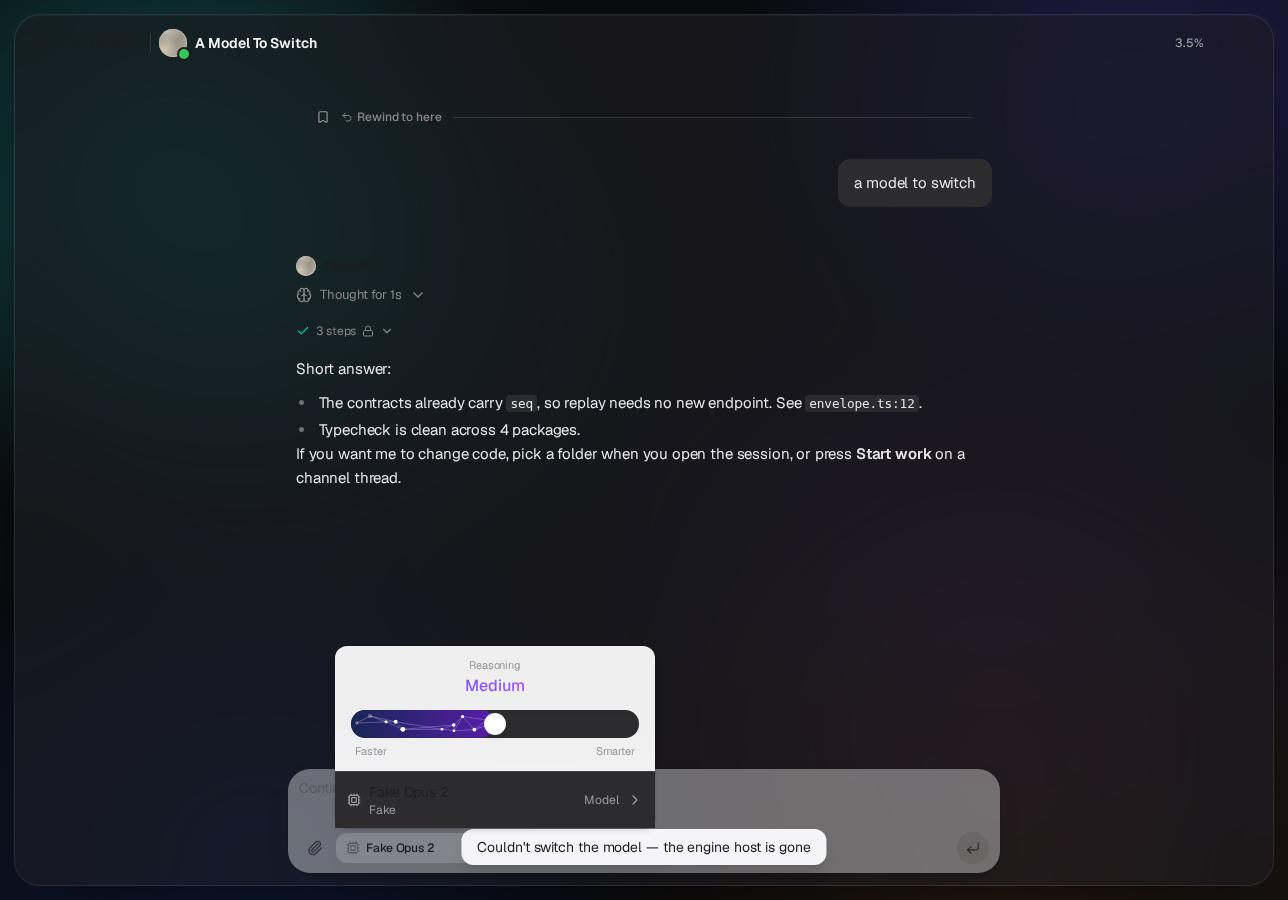
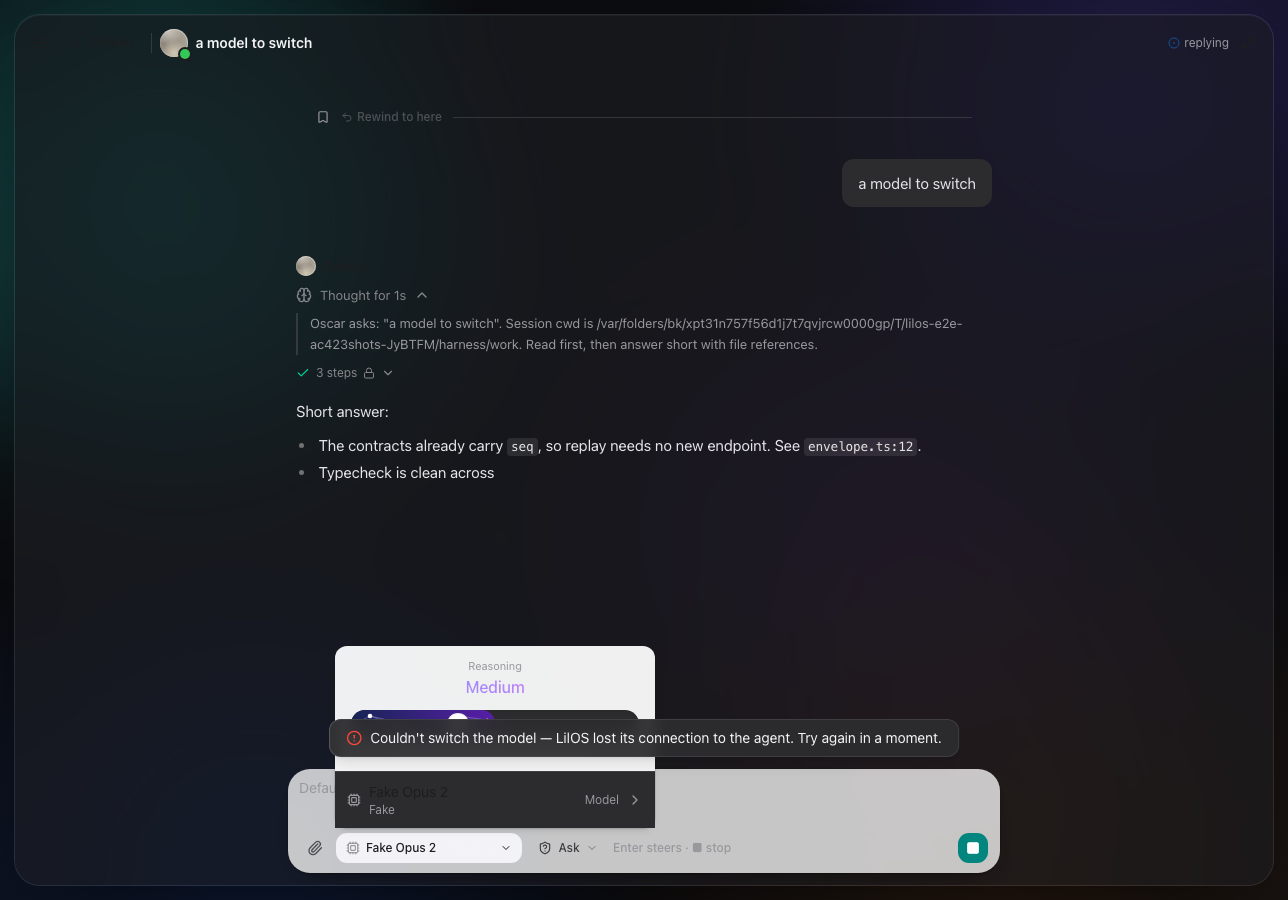
fix(dm): review — portal the toast, close silent failure paths (#423)
The in-tree z-index could never beat the popover portal: the app frame's
backdrop-filter makes it a stacking context, so the toast rendered under
the model picker's card. Portal to <body> like every other overlay.

Also from review: re-scan [data-composer] on DOM mutations so a view
switch mid-toast can't leave the pill parked over controls; clamp it
inside the viewport; toast when the asks.respond reconnect budget runs
out (the callers swallow that rejection); collapse invalid_params,
errno-style reasons and [object Object] to plain words; flag
Focus/Workbench "say" failures so they carry the destructive accent;
and toast a failed messages.search instead of showing "no hits".

Re-shoots all ten PR assets; the e2e spec now pins the toast-above-
composer geometry and the plain-words mapping on rename/archive too.

diff --git a/apps/web/src/lib/toast-view.tsx b/apps/web/src/lib/toast-view.tsx
@@ -1,5 +1,6 @@
 import { CircleAlertIcon } from "lucide-react";
 import { useLayoutEffect, useState } from "react";
+import { createPortal } from "react-dom";
 import type { Toast } from "./toast";
 
 /* The one-line notice host, rendered once by the app shell. It floats
@@ -7,9 +8,15 @@ import type { Toast } from "./toast";
    carries `data-composer` and the gap is measured, so the pill never
    lands on the toolbar row's controls no matter how tall the trays grow
    (#423 review: a bare `bottom-5` covered the model chip). With no
-   composer on screen it settles back to the plain bottom offset. */
+   composer on screen it settles back to the plain bottom offset. It is
+   portaled to <body> because the app frame's backdrop-filter makes it a
+   stacking context: an in-tree z-index could never outrank the popover
+   portal (model picker's card sits at z-50 there). */
 const RESTING_PX = 20;
 const GAP_PX = 12;
+/* A dock taller than the viewport could push the pill off the top edge —
+   keep at least this much of it on screen. */
+const TOP_RESERVE_PX = 56;
 
 export function ToastView({ toast }: { toast: Toast }) {
   const [bottom, setBottom] = useState(RESTING_PX);
@@ -21,29 +28,50 @@ export function ToastView({ toast }: { toast: Toast }) {
         if (r.height > 0)
           px = Math.max(px, window.innerHeight - r.top + GAP_PX);
       }
-      setBottom(px);
+      setBottom(Math.min(px, window.innerHeight - TOP_RESERVE_PX));
     };
-    measure();
     const ro = new ResizeObserver(measure);
-    for (const el of document.querySelectorAll("[data-composer]"))
-      ro.observe(el);
+    /* Composers mount and unmount while a toast is alive (DM home → Focus
+       mid-flight), so watch the tree — an element that wasn't here on
+       mount still gets measured, same seam watchDragRegions uses. The
+       filter keeps unrelated churn (streamed tokens) from re-measuring. */
+    const refresh = () => {
+      for (const el of document.querySelectorAll("[data-composer]"))
+        ro.observe(el);
+      measure();
+    };
+    refresh();
+    const mo = new MutationObserver((muts) => {
+      const hit = muts.some((m) =>
+        [...m.addedNodes, ...m.removedNodes].some(
+          (n) =>
+            n instanceof Element &&
+            (n.closest("[data-composer]") != null ||
+              n.querySelector("[data-composer]") != null),
+        ),
+      );
+      if (hit) refresh();
+    });
+    mo.observe(document.body, { childList: true, subtree: true });
     window.addEventListener("resize", measure);
     return () => {
+      mo.disconnect();
       ro.disconnect();
       window.removeEventListener("resize", measure);
     };
   }, []);
-  return (
+  return createPortal(
     <div
       data-toast
       role="status"
       style={{ bottom }}
-      className="fixed left-1/2 z-50 flex max-w-[calc(100vw-2rem)] -translate-x-1/2 items-center gap-2 rounded-lg border bg-popover px-4 py-2 text-popover-foreground text-sm shadow-lg backdrop-blur"
+      className="fixed left-1/2 z-[60] flex max-w-[calc(100vw-2rem)] -translate-x-1/2 items-center gap-2 rounded-lg border bg-popover px-4 py-2 text-popover-foreground text-sm shadow-lg backdrop-blur"
     >
       {toast.error && (
         <CircleAlertIcon className="size-4 shrink-0 text-destructive" />
       )}
-      <span className="min-w-0">{toast.text}</span>
-    </div>
+      <span className="min-w-0 break-words">{toast.text}</span>
+    </div>,
+    document.body,
   );
 }

diff --git a/apps/web/src/pages/dm.tsx b/apps/web/src/pages/dm.tsx
@@ -127,7 +127,7 @@ import {
   sessionModels,
   workbenchRequests,
 } from "../lib/runtime";
-import { say, sayError } from "../lib/toast";
+import { say, sayError, sayNotice } from "../lib/toast";
 import { defaultAccess } from "../settings/state";
 
 const EMPTY_MESSAGES = atom<ChannelMessagesState>({
@@ -402,24 +402,31 @@ export function DmPage() {
   const searchMessages = useCallback(
     async (query: string): Promise<MessageHit[]> => {
       if (!channel?.id) return [];
-      const res = await relay.request<{ hits: MessageSearchHit[] }>(
-        "messages.search",
-        { query, channelId: channel.id, includeArchived: true, limit: 50 },
-      );
-      return res.hits.flatMap((h) => {
-        const conv = convs.find((c) => c.id === h.conversationId);
-        if (h.conversationId && !conv) return [];
-        return [
-          {
-            rootId: conv?.rootMessageId ?? h.messageId,
-            messageId: h.messageId,
-            from: h.authorId,
-            time: clock(h.createdAt),
-            snippet: h.snippet,
-            archived: conv?.archived,
-          },
-        ];
-      });
+      try {
+        const res = await relay.request<{ hits: MessageSearchHit[] }>(
+          "messages.search",
+          { query, channelId: channel.id, includeArchived: true, limit: 50 },
+        );
+        return res.hits.flatMap((h) => {
+          const conv = convs.find((c) => c.id === h.conversationId);
+          if (h.conversationId && !conv) return [];
+          return [
+            {
+              rootId: conv?.rootMessageId ?? h.messageId,
+              messageId: h.messageId,
+              from: h.authorId,
+              time: clock(h.createdAt),
+              snippet: h.snippet,
+              archived: conv?.archived,
+            },
+          ];
+        });
+      } catch (e) {
+        /* The feed swallows the rejection — the toast is the only signal
+           the search failed rather than finding nothing (#423). */
+        sayError(describeActionError("Couldn't search messages", e));
+        throw e;
+      }
     },
     [channel?.id, convs],
   );
@@ -1401,7 +1408,7 @@ export function DmPage() {
           accept={canAttachImages ? "image/*" : undefined}
           maxFileSize={MAX_ATTACHMENT_BYTES}
           onAttachError={sayError}
-          say={say}
+          say={sayNotice}
           host={conv.cwd ? hostAccessors : undefined}
           transcriptNote={transcriptNote}
           scrollTo={scrollTo ?? undefined}

diff --git a/packages/ui/src/workbench/workbench.tsx b/packages/ui/src/workbench/workbench.tsx
@@ -166,7 +166,9 @@ export function Workbench({
   /** True while the "asks to start work" card is open: it is the single entry point (issue #15). */
   startYields?: boolean;
   onSend?: (t: string) => void;
-  say?: (t: string) => void;
+  /* `{error:true}` marks a failed action — the host toasts it with the
+     destructive accent instead of a neutral note (#423). */
+  say?: (t: string, opts?: { error?: boolean }) => void;
   repoFiles?: string[];
   /** Live host accessors for the session's real cwd (issue #11 fs/git, #37 forge). */
   host?: HostAccessors;
@@ -760,7 +762,9 @@ export function Workbench({
         ? (path: string, app: OsApp, line?: number) => {
             void host
               .osOpen?.(liveCwd, path, app, line)
-              .catch((e) => say?.(`Open failed — ${ghError(e)}`));
+              .catch((e) =>
+                say?.(`Open failed — ${ghError(e)}`, { error: true }),
+              );
           }
         : undefined;
   const prComment =
@@ -771,7 +775,7 @@ export function Workbench({
             await reloadPr();
             say?.("Comment posted via gh");
           } catch (e) {
-            say?.(`Comment failed — ${ghError(e)}`);
+            say?.(`Comment failed — ${ghError(e)}`, { error: true });
           }
         }
       : onPrComment;
@@ -781,13 +785,16 @@ export function Workbench({
           try {
             const pr = await host.prMerge?.(liveCwd, m);
             if (pr) setProbe((p) => (p ? { ...p, pr: { pr } } : p));
-            say?.(
-              pr?.status === "merged"
-                ? `Merged #${pr.number} into ${pr.base} · gh pr merge --${m}`
-                : `gh pr merge returned but the PR is ${pr?.status}`,
-            );
+            if (pr?.status === "merged")
+              say?.(
+                `Merged #${pr.number} into ${pr.base} · gh pr merge --${m}`,
+              );
+            else
+              say?.(`gh pr merge returned but the PR is ${pr?.status}`, {
+                error: true,
+              });
           } catch (e) {
-            say?.(`Merge failed — ${ghError(e)}`);
+            say?.(`Merge failed — ${ghError(e)}`, { error: true });
           }
         }
       : onPrMerge;

diff --git a/apps/web/src/lib/actions.ts b/apps/web/src/lib/actions.ts
@@ -164,16 +164,23 @@ export function describeActionError(action: string, e: unknown): string {
       return `${action} — the relay didn't answer; try again.`;
     if (e.code === "engine_unavailable")
       return `${action} — ${CONNECTION_LOST}`;
+    /* "invalid params" is a refused request, not user copy. */
+    if (e.code === "invalid_params") return `${action} — try again.`;
   }
   const raw = e instanceof Error ? e.message : e == null ? "" : String(e);
   if (e == null) return action;
   /* First line only — a stack tail is never toast copy. A reason that is
-     itself jargon ("engine host …") or a bare snake_case code collapses
-     to the plain line / a bare "try again". */
+     itself jargon ("engine host …"), a bare snake_case code, an errno
+     (ENOENT…) or a stringified object collapses to the plain line /
+     a bare "try again". */
   const reason = raw.split("\n", 1)[0].trim();
   if (/engine host/i.test(reason)) return `${action} — ${CONNECTION_LOST}`;
-  if (!reason) return `${action} — try again.`;
-  if (/^[a-z][a-z0-9_]*$/.test(reason) && reason.includes("_"))
+  if (
+    !reason ||
+    /^\[object /.test(reason) ||
+    (/^[a-z][a-z0-9_]*$/.test(reason) && reason.includes("_")) ||
+    /\bE[A-Z][A-Z0-9]{2,}\b/.test(reason)
+  )
     return `${action} — try again.`;
   return `${action} — ${reason}`;
 }
@@ -315,7 +322,14 @@ export async function respondToRequest(
         sayError("Couldn't send that answer — try again.");
         throw e;
       }
-      await waitForRelayReady(deadline);
+      /* The budget running out inside the wait throws past the catch —
+         the callers swallow it, so the toast has to land here (#423). */
+      try {
+        await waitForRelayReady(deadline);
+      } catch (wait) {
+        sayError(describeActionError("Couldn't send that answer", wait));
+        throw wait;
+      }
     }
   }
 }

diff --git a/e2e/ac-423-action-failures.spec.ts b/e2e/ac-423-action-failures.spec.ts
@@ -242,6 +242,18 @@ test("AC-1 a failed Stop shows its reason", async ({ page }) => {
   });
   await expect(page.locator(TOAST)).toContainText(LOST);
   await expect(page.locator(TOAST)).not.toContainText("engine host");
+  /* The review's geometry claim, pinned: the pill's bottom edge clears the
+     composer's top, so it can never sit on the toolbar's controls. */
+  const toastBox = await page.locator(TOAST).boundingBox();
+  const composerBox = await page
+    .locator("[data-composer]")
+    .last()
+    .boundingBox();
+  expect(toastBox).not.toBeNull();
+  expect(composerBox).not.toBeNull();
+  expect(toastBox!.y + toastBox!.height).toBeLessThanOrEqual(
+    composerBox!.y + 1,
+  );
   await shot(page, "ac1-stop-toast");
 });
 
@@ -296,6 +308,7 @@ test("AC-1 failed rename, archive and unarchive show their reasons", async ({
     "Couldn't rename the session",
     { timeout: 15_000 },
   );
+  await expect(page.locator(TOAST)).toContainText(LOST);
 
   /* Archive — same method, {archived} instead. */
   fail.heal();
@@ -309,6 +322,7 @@ test("AC-1 failed rename, archive and unarchive show their reasons", async ({
     "Couldn't archive the session",
     { timeout: 15_000 },
   );
+  await expect(page.locator(TOAST)).toContainText(LOST);
   await shot(page, "ac1-archive-toast");
 
   /* Unarchive — the row moves under the collapsed Archived section first. */
@@ -331,6 +345,7 @@ test("AC-1 failed rename, archive and unarchive show their reasons", async ({
     "Couldn't unarchive the session",
     { timeout: 15_000 },
   );
+  await expect(page.locator(TOAST)).toContainText(LOST);
 });
 
 test("AC-1 a failed background-jobs list shows its reason", async ({

diff --git a/packages/ui/src/focus/focus-view.tsx b/packages/ui/src/focus/focus-view.tsx
@@ -191,7 +191,9 @@ export function FocusView({
   defaultModel?: string;
   /* The default's provider — a `{provider?, id}` pair disambiguates a shared id. */
   defaultProvider?: string;
-  say?: (t: string) => void;
+  /* `{error:true}` marks a failed action — the host toasts it with the
+     destructive accent instead of a neutral note (#423). */
+  say?: (t: string, opts?: { error?: boolean }) => void;
   models?: ModelOption[];
   repoFiles?: string[];
   /** Live host accessors forwarded to the Workbench (issue #11 fs/git, #37 forge). */
@@ -522,6 +524,7 @@ export function FocusView({
                               .catch((e) =>
                                 say?.(
                                   `Open failed — ${e instanceof Error ? e.message : String(e)}`,
+                                  { error: true },
                                 ),
                               ),
                         }
@@ -652,7 +655,7 @@ export function FocusView({
           {/* The banner lives in the same column as the messages — never a
               full-bleed strip the action floats away on (#423). */}
           {banner && (
-            <div className="mx-auto w-full max-w-[46rem] px-3 pt-3 sm:px-5">
+            <div className="mx-auto w-full max-w-[46rem] px-5 pt-3">
               {banner}
             </div>
           )}

diff --git a/apps/web/test/ac-423-action-failures.test.ts b/apps/web/test/ac-423-action-failures.test.ts
@@ -127,6 +127,27 @@ describe("AC-1 describeActionError", () => {
     );
     expect(describeActionError("Couldn't X", undefined)).toBe("Couldn't X");
   });
+
+  test("jargon shapes collapse: invalid_params, errno codes, [object Object]", () => {
+    /* "invalid params" is a refused request, not toast copy. */
+    expect(
+      describeActionError(
+        "Couldn't rename the session",
+        new RelayError("invalid params", "invalid_params"),
+      ),
+    ).toBe("Couldn't rename the session — try again.");
+    /* errno-style reasons (ENOENT/ECONNREFUSED…) are codes, not words. */
+    expect(
+      describeActionError(
+        "Couldn't open the file",
+        new Error("ENOENT: no such file or directory, open '/tmp/x/y'"),
+      ),
+    ).toBe("Couldn't open the file — try again.");
+    /* A rejection carrying a bare object never stringifies into the UI. */
+    expect(describeActionError("Couldn't X", { weird: true })).toBe(
+      "Couldn't X — try again.",
+    );
+  });
 });
 
 describe("AC-1 toastOnFail", () => {

diff --git a/apps/web/src/lib/toast.ts b/apps/web/src/lib/toast.ts
@@ -30,3 +30,11 @@ export function say(message: string): void {
 export function sayError(message: string): void {
   show({ text: message, error: true });
 }
+
+/** The `(text, {error})` shape Focus/Workbench `say` props take: a
+    flagged line gets the destructive accent, anything else stays a
+    neutral note (#423). */
+export function sayNotice(text: string, opts?: { error?: boolean }): void {
+  if (opts?.error) sayError(text);
+  else say(text);
+}
